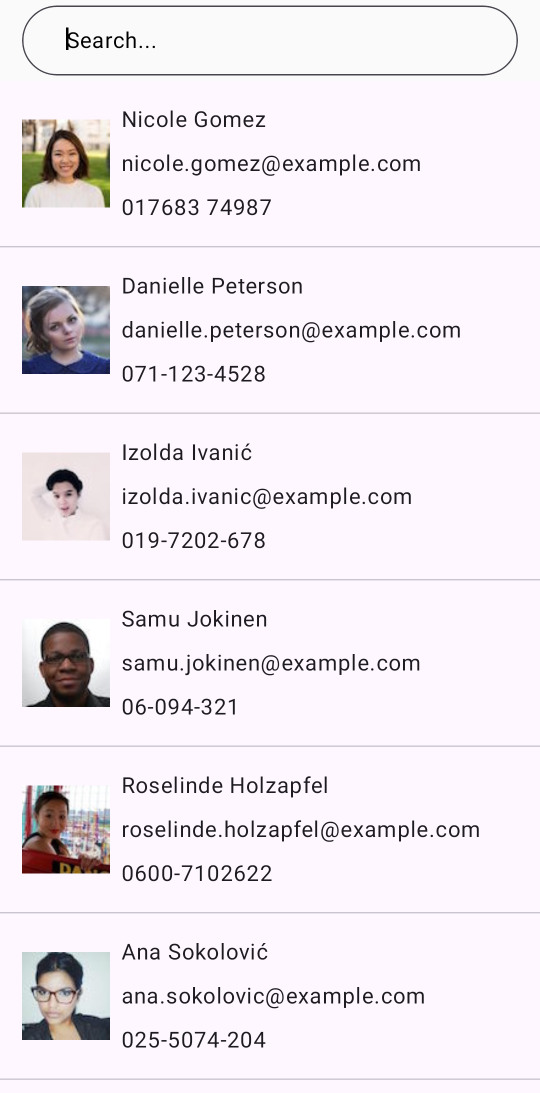
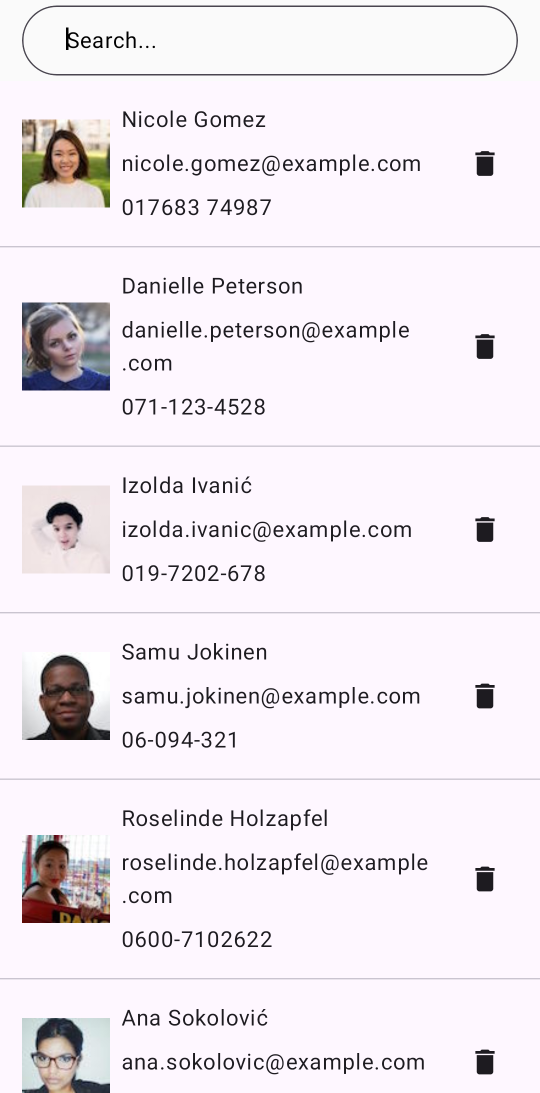
test: add case when delete user

diff --git a/feature/user/src/test/java/com/gcaguilar/randomuser/feature/user/presentation/RandomUserScreenTest.kt b/feature/user/src/test/java/com/gcaguilar/randomuser/feature/user/presentation/RandomUserScreenTest.kt
@@ -4,6 +4,7 @@ import android.app.Application
 import android.content.pm.ActivityInfo
 import androidx.activity.ComponentActivity
 import androidx.compose.ui.test.onNodeWithTag
+import androidx.compose.ui.test.performClick
 import androidx.compose.ui.test.performTextClearance
 import androidx.compose.ui.test.performTextInput
 import androidx.test.core.app.ApplicationProvider
@@ -14,6 +15,7 @@ import com.gcaguilar.randomuser.createScreenshotTestComposeRule
 import com.gcaguilar.randomuser.feature.user.data.api.RandomUserApiClient
 import com.gcaguilar.randomuser.feature.user.data.api.UserRemoteDataSource
 import com.gcaguilar.randomuser.feature.user.data.repository.RandomUserRepository
+import com.gcaguilar.randomuser.feature.user.domain.DeleteUser
 import com.gcaguilar.randomuser.feature.user.domain.GetUsers
 import com.gcaguilar.randomuser.feature.user.fake.FakeUserLocalDataSource
 import com.gcaguilar.randomuser.feature.user.modules.networkTestModule
@@ -73,6 +75,7 @@ class RandomUserScreenTest : KoinTest {
                 factory<UserRemoteDataSource> { RandomUserApiClient(get()) }
                 factory<RandomUserRepository> { RandomUserRepository(get(), get()) }
                 factory<GetUsers> { GetUsers(get()) }
+                factory<DeleteUser> { DeleteUser(get()) }
                 viewModelOf(::FeedRandomUserViewModel)
             },
             networkTestModule
@@ -107,6 +110,16 @@ class RandomUserScreenTest : KoinTest {
             composeTestRule
                 .onNodeWithTag("searchField")
                 .performTextClearance()
+        }
+
+    @Test
+    fun `Given that a user enters the screen with data and click on delete button of some user whGetUsersen the action is performed then the results are updated`() =
+        runTest {
+            renderScreen()
+
+            composeTestRule
+                .onNodeWithTag("DeleteNicole Gomez")
+                .performClick()
         }
 
     private fun renderScreen() {

diff --git a/feature/user/src/main/java/com/gcaguilar/randomuser/feature/user/presentation/ui/UserCard.kt b/feature/user/src/main/java/com/gcaguilar/randomuser/feature/user/presentation/ui/UserCard.kt
@@ -16,6 +16,7 @@ import androidx.compose.material3.Text
 import androidx.compose.runtime.Composable
 import androidx.compose.ui.Alignment
 import androidx.compose.ui.Modifier
+import androidx.compose.ui.platform.testTag
 import androidx.compose.ui.unit.dp
 import coil3.compose.AsyncImage
 
@@ -54,7 +55,7 @@ fun UserCard(
                 Text(phone)
             }
             IconButton(
-                modifier = Modifier,
+                modifier = Modifier.testTag("Delete${name}"),
                 onClick = onRemoveUser
             ) {
                 Icon(
